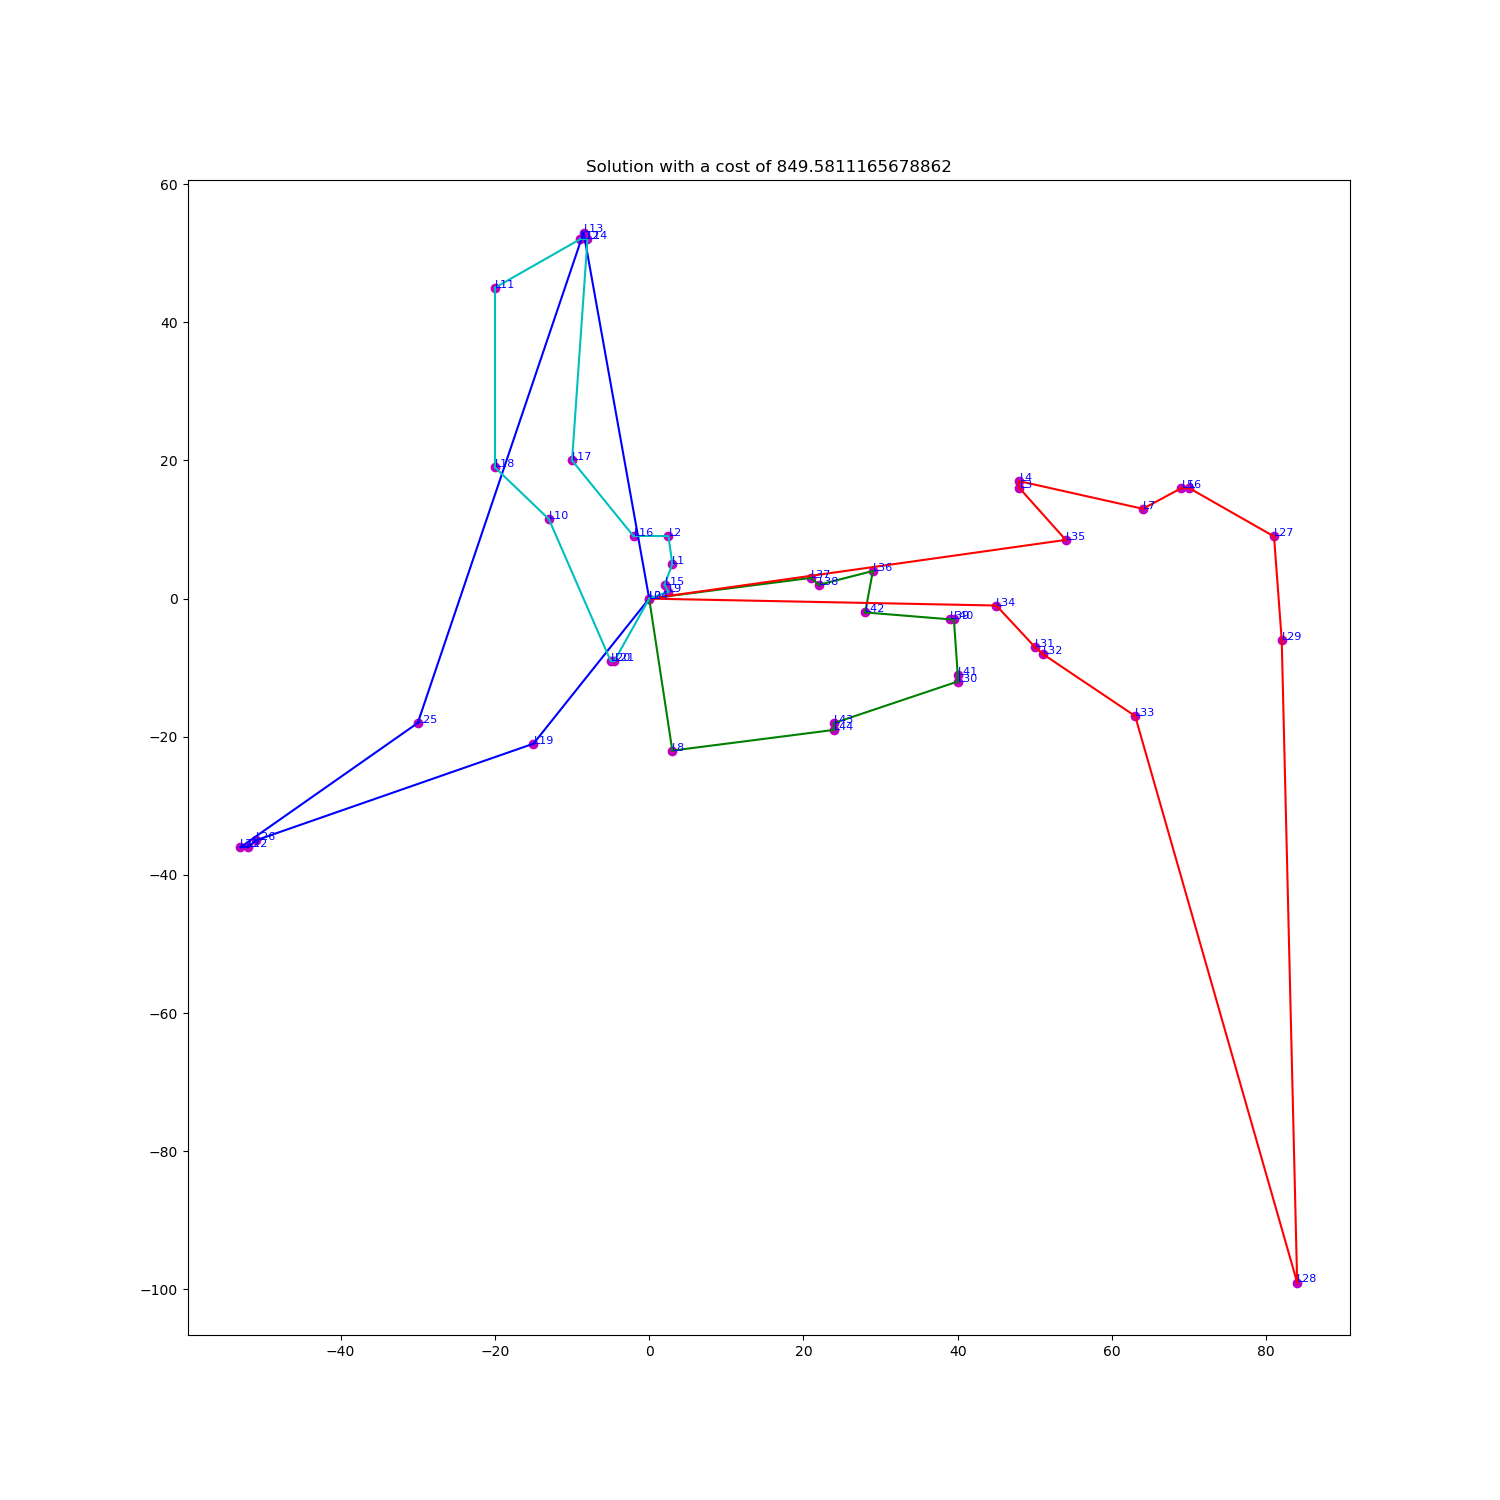
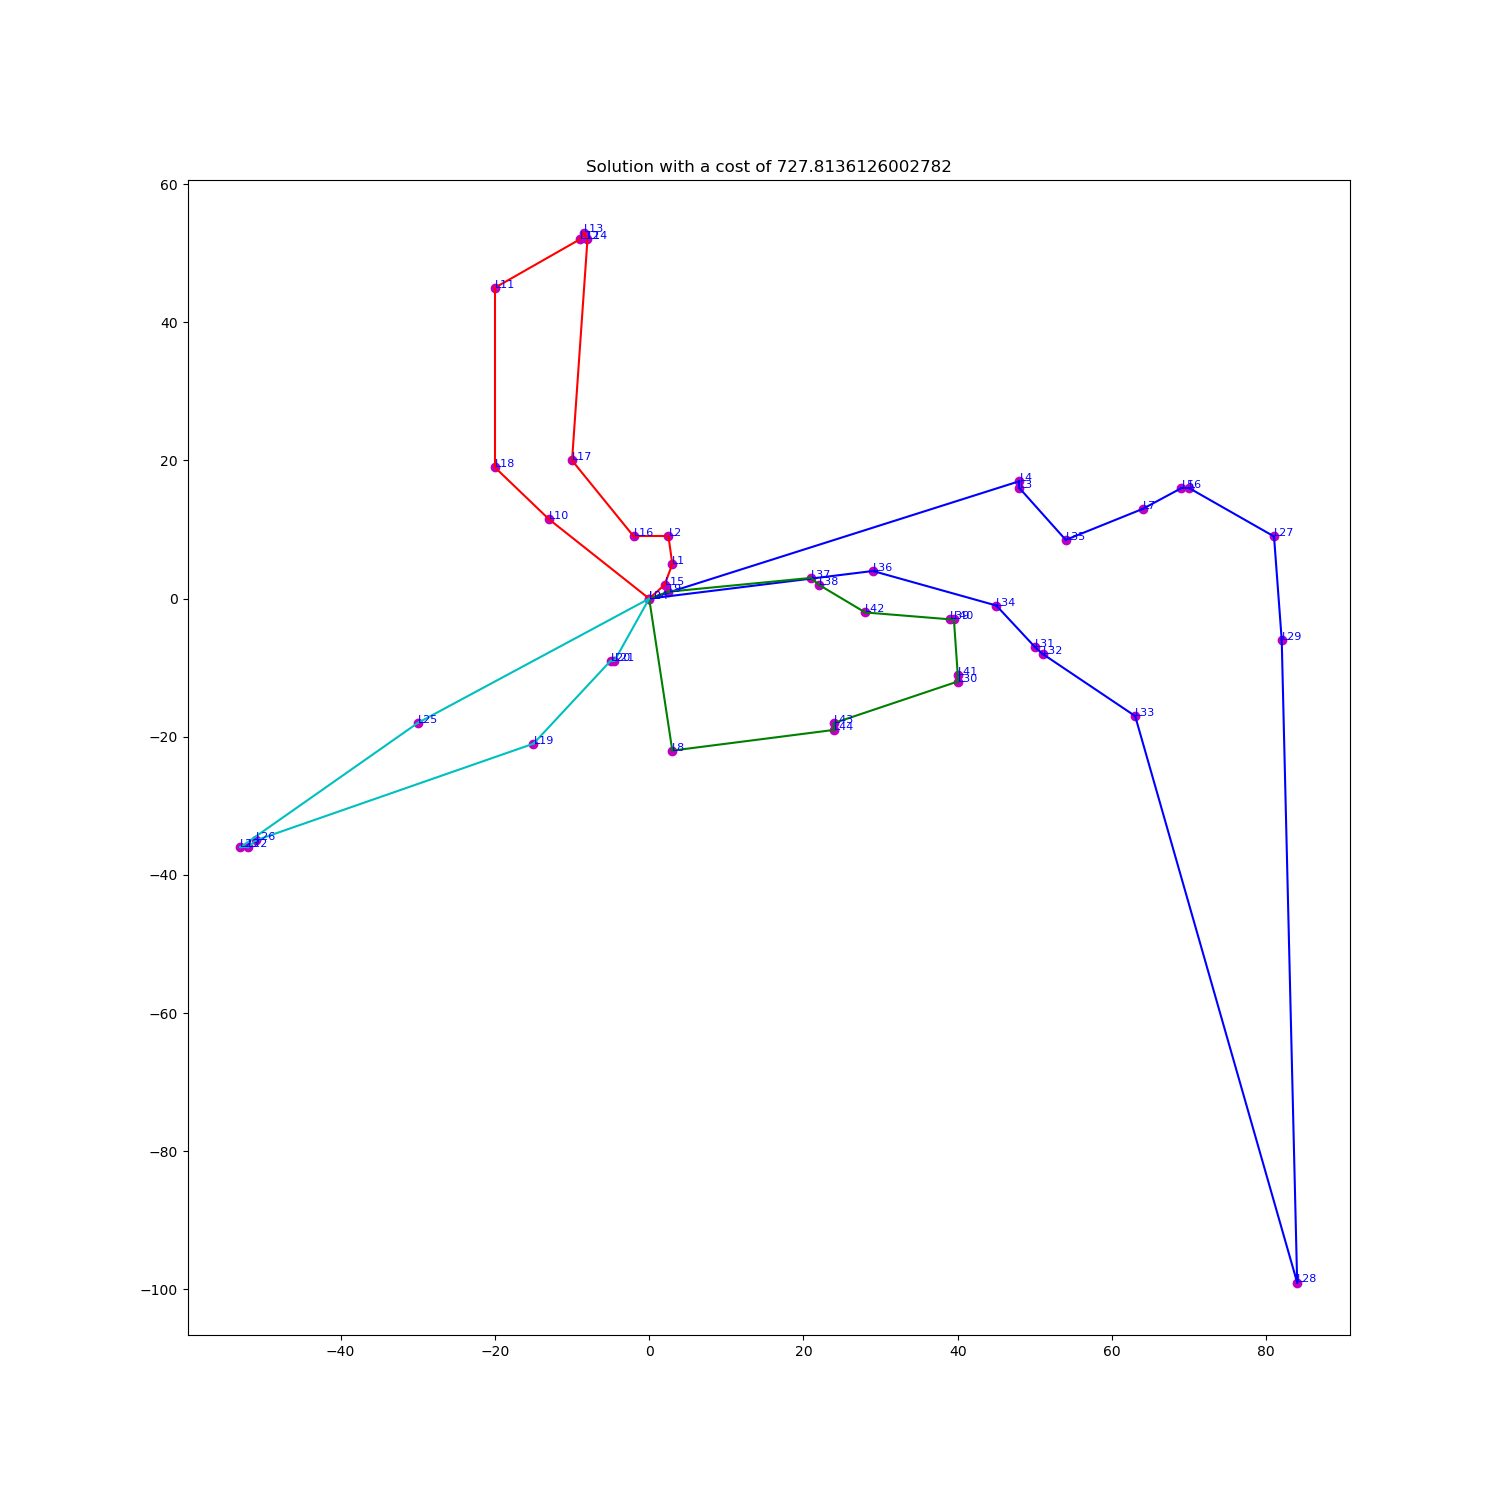
cleaned code for restarts, only works for instanceA right now

diff --git a/solver.py b/solver.py
@@ -272,16 +272,16 @@ def solve_advance(n, k, W, points):
     # s = greedy_routes(k,W,clients)
 
     # nb_iterations = 1000
-    T = 100
-    initT = T
+    T = 30
     alphaT = 0.9
 
     fs = getCost(s,clients)
     star = s
     fstar = fs
+    fstar_prev = fstar
 
     re_count = 0
-    re_lim = 100
+    re_lim = 20
 
     iterations_for_2opt = 5
     # for k in range(nb_iterations):
@@ -294,7 +294,7 @@ def solve_advance(n, k, W, points):
                 # if restart limit has be reached, we regenerate neighborhood on best solution and reset T
                 G = generate_neighboorhood(star)
                 V = validate_neighboorhood(G, clients, W)
-                T = initT
+                re_count = 0
             else:
                 # if we keep the same s, no use to redo generation and validation
                 G = generate_neighboorhood(s)
@@ -308,16 +308,17 @@ def solve_advance(n, k, W, points):
             s = c
             fs = fc
             if fs < fstar:
-                # if we improve the best sol'n, restart counter reset
+                # if we improve the best sol'n, restart counter resets
                 re_count = 0
                 star = s
                 fstar = fs
                 T = alphaT * T
                 print(str(k),fstar)
-            if fs == fstar:
+            if fstar_prev == fstar:
                 # count up to restart limit
                 re_count += 1
             change = True
+        fstar_prev = fstar
         k += 1
 
     print("before opt",fstar)
